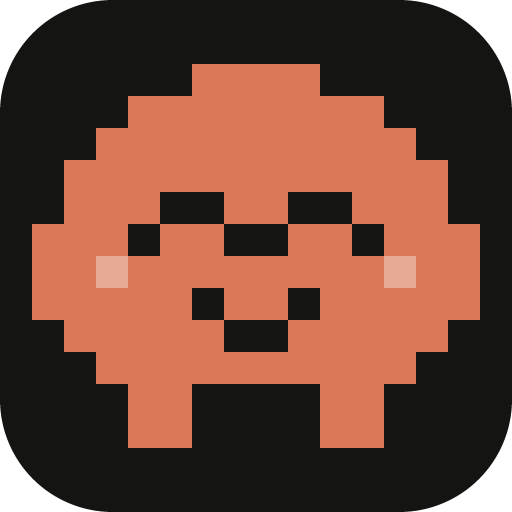
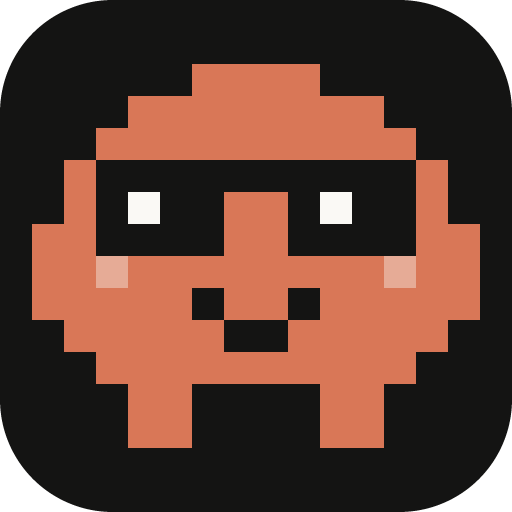
feat: ícone do app com o bixinho de óculos escuros
- scripts/gerarIcones.cjs: o rosto feliz dá lugar aos óculos escuros (lentes com brilho, bochechas e sorriso); corpo, escala, fundo e tamanhos iguais.
- electron/icones/icone.ico e icone.png regenerados (script determinístico).
- electron/icones.test.js: confere lentes, brilho, boca e que não há olho por baixo dos óculos.
- README: ADR-27 explica a escolha (memorável, legível em 16 px, "deixa comigo").

Changed region(s): [[0.1875, 0.3125, 0.8125, 0.5]]

diff --git a/electron/icones.test.js b/electron/icones.test.js
@@ -79,7 +79,7 @@ describe("gerarPng", () => {
 });
 
 describe("pixelsDoIcone", () => {
-  it("em 16 px: canto transparente, corpo laranja, olho escuro, bochecha e fundo", () => {
+  it("em 16 px: canto transparente, corpo laranja, lente escura com brilho, boca, bochecha e fundo", () => {
     const rgba = pixelsDoIcone(16);
 
     expect(rgba.length).toBe(16 * 16 * 4);
@@ -87,10 +87,31 @@ describe("pixelsDoIcone", () => {
     expect(pixel(rgba, 16, 15, 15)[3]).toBe(0);
     // Linha 7 do desenho deslocado = linha 6 do CORPOS.gota (".##############.").
     expect(pixel(rgba, 16, 7, 2)).toEqual(opaco(CORES.corpo));
-    // Olho [7, 5] do ROSTOS.feliz, uma linha acima depois do deslocamento.
+    // Lente [7, 5] dos óculos escuros, uma linha acima depois do deslocamento.
     expect(pixel(rgba, 16, 6, 5)).toEqual(opaco(CORES.escuro));
+    // Brilho [7, 4] e [7, 10], no alto de cada lente.
+    expect(pixel(rgba, 16, 6, 4)).toEqual(opaco(CORES.brilho));
+    expect(pixel(rgba, 16, 6, 10)).toEqual(opaco(CORES.brilho));
+    // Boca [11, 7] (o sorriso).
+    expect(pixel(rgba, 16, 10, 7)).toEqual(opaco(CORES.escuro));
     expect(pixel(rgba, 16, 8, 3)).toEqual(opaco(CORES.bochecha));
     expect(pixel(rgba, 16, 8, 0)).toEqual(opaco(CORES.fundo));
+  });
+
+  it("os óculos não têm olhos por baixo: as duas lentes e a ponte são blocos escuros", () => {
+    const grade = gradeDoMascote();
+    const lentes = [5, 6, 7].flatMap((linha) =>
+      [3, 4, 5, 6, 9, 10, 11, 12].map((coluna) => [linha, coluna]),
+    );
+    const brilhos = new Set(["6,4", "6,10"]);
+
+    for (const [linha, coluna] of lentes) {
+      expect(grade[linha][coluna]).toBe(brilhos.has(`${linha},${coluna}`) ? "brilho" : "escuro");
+    }
+    expect(grade[5][7]).toBe("escuro");
+    expect(grade[5][8]).toBe("escuro");
+    expect(grade[6][7]).toBe("corpo");
+    expect(grade[7][8]).toBe("corpo");
   });
 
   it("centraliza o desenho: linhas 2–13 e colunas 1–14", () => {
@@ -112,6 +133,8 @@ describe("pixelsDoIcone", () => {
     expect(pixel(rgba, 256, 7 * 16, 2 * 16)).toEqual(opaco(CORES.corpo));
     expect(pixel(rgba, 256, 7 * 16 + 15, 2 * 16 + 15)).toEqual(opaco(CORES.corpo));
     expect(pixel(rgba, 256, 6 * 16 + 8, 5 * 16 + 8)).toEqual(opaco(CORES.escuro));
+    expect(pixel(rgba, 256, 6 * 16, 4 * 16)).toEqual(opaco(CORES.brilho));
+    expect(pixel(rgba, 256, 6 * 16 + 15, 4 * 16 + 15)).toEqual(opaco(CORES.brilho));
     expect(pixel(rgba, 256, 0, 0)[3]).toBe(0);
   });
 

diff --git a/README.md b/README.md
@@ -81,7 +81,7 @@ npm run dist:win:teste   # build de teste, em dist_electron_teste/: pula a licen
 
 O build de teste grava `"buildDeTeste": true` no `package.json` empacotado; serve para os testes de ponta a ponta do instalado.
 
-**Ícone do app** (ver ADR-27): fica em `electron/icones/` e é versionado. O `icone.ico` (16, 20, 24, 32, 40, 48, 64, 128 e 256 px) vai na janela e na barra de tarefas do Windows, no `.exe` (`build.win.icon`) e no instalador e desinstalador (`build.nsis.installerIcon`/`uninstallerIcon`); o `icone.png` (512 × 512) vai na janela fora do Windows. Para regenerar depois de mudar o desenho ou as cores em `scripts/gerarIcones.cjs`:
+**Ícone do app** (ver ADR-27): o bixinho gota de óculos escuros; fica em `electron/icones/` e é versionado. O `icone.ico` (16, 20, 24, 32, 40, 48, 64, 128 e 256 px) vai na janela e na barra de tarefas do Windows, no `.exe` (`build.win.icon`) e no instalador e desinstalador (`build.nsis.installerIcon`/`uninstallerIcon`); o `icone.png` (512 × 512) vai na janela fora do Windows. Para regenerar depois de mudar o desenho ou as cores em `scripts/gerarIcones.cjs`:
 
 ```bash
 npm run icones   # grava electron/icones/icone.ico e icone.png
@@ -256,7 +256,7 @@ Casos de teste dos **artefatos** (ver ADR-26):
 
 Casos de teste do **ícone do app** (ver ADR-27; `electron/icones.test.js`):
 - **`gerarPng`:** assinatura PNG, IHDR com largura, altura, 8 bits e RGBA; o IDAT descompactado é cada linha com o filtro 0 e os pixels; RGBA com a quantidade errada de bytes é recusado; o CRC-32 do `IEND` bate com o conhecido.
-- **`pixelsDoIcone`:** em 16 px, cantos transparentes, corpo laranja em [7, 2], olho escuro em [6, 5], bochecha em [8, 3] e fundo escuro em [8, 0]; o desenho ocupa as linhas 2–13 e as colunas 1–14; em 256 px cada célula é um bloco nítido de 16 × 16; em 24 px, escala 1 e margem 4; a borda do arredondado tem alpha parcial; tamanho menor que 16 é recusado.
+- **`pixelsDoIcone`:** em 16 px (bixinho gota de óculos escuros), cantos transparentes, corpo laranja em [7, 2], lente escura em [6, 5], brilho claro das lentes em [6, 4] e [6, 10], boca escura em [10, 7], bochecha em [8, 3] e fundo escuro em [8, 0]; sem olhos por baixo dos óculos: as lentes (linhas 5–7, colunas 3–6 e 9–12) e a ponte ([5, 7] e [5, 8]) são escuras, salvo o brilho; o desenho ocupa as linhas 2–13 e as colunas 1–14; em 256 px cada célula é um bloco nítido de 16 × 16 (inclusive o brilho); em 24 px, escala 1 e margem 4; a borda do arredondado tem alpha parcial; tamanho menor que 16 é recusado.
 - **`gerarIco`:** cabeçalho com tipo 1 e a quantidade de entradas; o 256 grava 0 na largura e na altura; planes 1, 32 bits e cada offset aponta para o PNG certo; lista vazia e PNG maior que 256 são recusados.
 - **Arquivos versionados:** o `icone.ico` tem os 9 tamanhos (inclusive o 256), cada um como PNG; o `icone.png` tem 512 × 512.
 - **Conferência manual:** `npm run desktop` mostra o bixinho na janela e na barra de tarefas (não o átomo do Electron); no instalado, também no atalho, no instalador e no desinstalador.
@@ -927,19 +927,20 @@ flowchart TD
   - os artefatos não contam no limite de 4 orquestradores abertos (ADR-18) e não têm rotação: ficam até serem apagados. Excluir um Orquestrador ou dar `/clear` não apaga os artefatos dele;
   - o *salvar como* baixa a versão vista pelo navegador do app (um Blob), sem rota nova no servidor.
 
-**ADR-27 — Ícone do app: o bixinho gota feliz em pixel art, gerado por script sem dependências.**
+**ADR-27 — Ícone do app: o bixinho gota de óculos escuros em pixel art, gerado por script sem dependências.**
 - *Contexto:*
   - sem ícone definido, a janela, a barra de tarefas, o `.exe` e o instalador mostravam o átomo padrão do Electron;
   - o mascote do app já existe na tela: os bixinhos dos Subagentes, em pixel art 16 × 16 (`web/src/shared/canvas/sprites.ts`);
+  - a primeira versão usava o bixinho gota feliz, simpático mas parecido com qualquer mascote; os óculos escuros são mais característicos e memoráveis (óculos de pixel são um meme conhecido, o "deal with it"), as lentes formam um bloco escuro forte que continua legível em 16 px, e o personagem combina com a ideia de "deixa comigo" do produto;
   - a rede fica bloqueada no ambiente de trabalho, e uma biblioteca de imagem (ou um editor externo) só para gerar um ícone seria uma dependência a mais para manter.
 - *Decisão:*
-  - **o ícone é o bixinho `gota` com a expressão `feliz`, laranja**, sobre um quadrado escuro (`#141413`) de cantos arredondados (raio de 22% do lado). As cores repetem os tokens do tema (`--claude-escuro`, `--claude-laranja` e a mistura da bochecha); o desenho é uma cópia de `CORPOS.gota` e `ROSTOS.feliz`, subida 1 linha para ficar centralizado;
+  - **o ícone é o bixinho `gota` de óculos escuros, laranja**, sobre um quadrado escuro (`#141413`) de cantos arredondados (raio de 22% do lado). As cores repetem os tokens do tema (`--claude-escuro`, `--claude-laranja`, `--claude-claro` no brilho das lentes e a mistura da bochecha). O corpo é uma cópia de `CORPOS.gota`, e a boca (o sorriso) e as bochechas, de `ROSTOS.feliz`; as lentes (dois blocos de 3 × 4 unidos por uma ponte, no lugar dos olhos) e o brilho (um pixel claro no alto de cada lente) são desenho próprio do ícone, não vêm de `sprites.ts`. Tudo sobe 1 linha para ficar centralizado;
   - **`scripts/gerarIcones.cjs`**, só com `fs`, `path` e `zlib` do Node: rasteriza a grade, escreve o PNG à mão (RGBA de 8 bits, filtro 0, CRC-32 próprio) e monta o `.ico`. Os arquivos gerados (`electron/icones/icone.ico` e `icone.png`) são versionados, então o build não depende de rodar o script;
   - **escala inteira**: em cada tamanho, cada célula vira um bloco de ⌊N/16⌋ × ⌊N/16⌋ pixels, centralizado, para o pixel art ficar nítido, sem borrão; só a borda do arredondado tem antialias (4 × 4 amostras por pixel);
   - **`.ico` com PNG embutido** em cada tamanho (16 a 256), formato aceito pelo Windows desde o Vista;
   - no `main.js`, toda janela recebe o `icon` (`.ico` no Windows, `.png` fora dele) e, no Windows, `app.setAppUserModelId(config.appId)` usa o mesmo appId do atalho do electron-builder, para a barra de tarefas agrupar e mostrar o ícone certo.
 - *Consequências:*
-  - o desenho fica em dois lugares (o sprite da tela e a cópia no script): mudar o mascote pede atualizar o script e rodar `npm run icones`;
+  - o corpo, a boca e as bochechas ficam em dois lugares (o sprite da tela e a cópia no script): mudar o mascote pede atualizar o script e rodar `npm run icones`; as lentes e o brilho só existem no script;
   - nos tamanhos que não são múltiplos de 16 (20, 24, 40), o desenho fica menor que a imagem, com margem escura, em troca da nitidez;
   - com `setAppUserModelId`, o `npm run desktop` e o app instalado têm a mesma identidade na barra de tarefas e podem aparecer agrupados se abertos juntos;
   - o `.ico` só com PNG não foi conferido no `npm run dist:win` (precisa de rede): se o electron-builder ou o NSIS recusarem algum tamanho, a saída é trocar os tamanhos pequenos por BMP no script.
